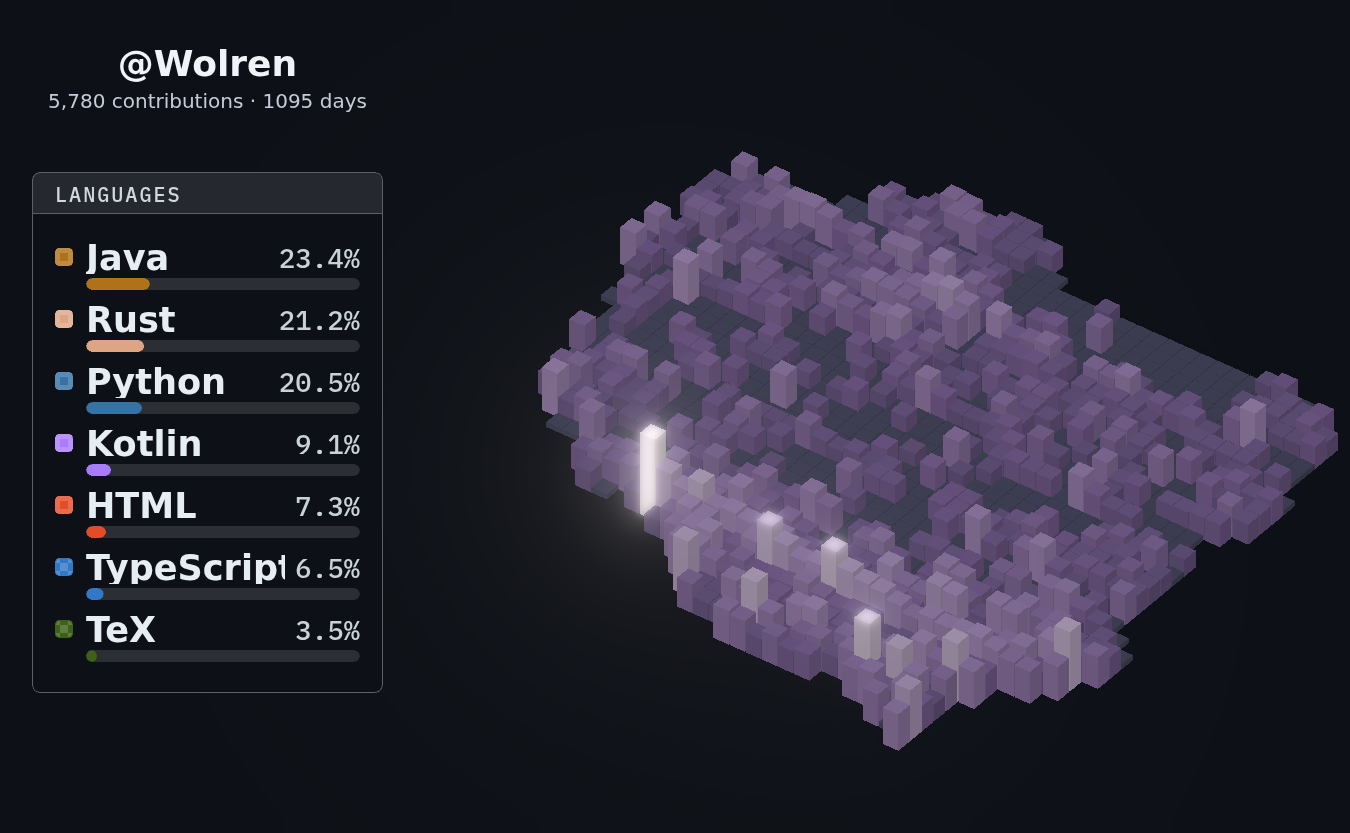
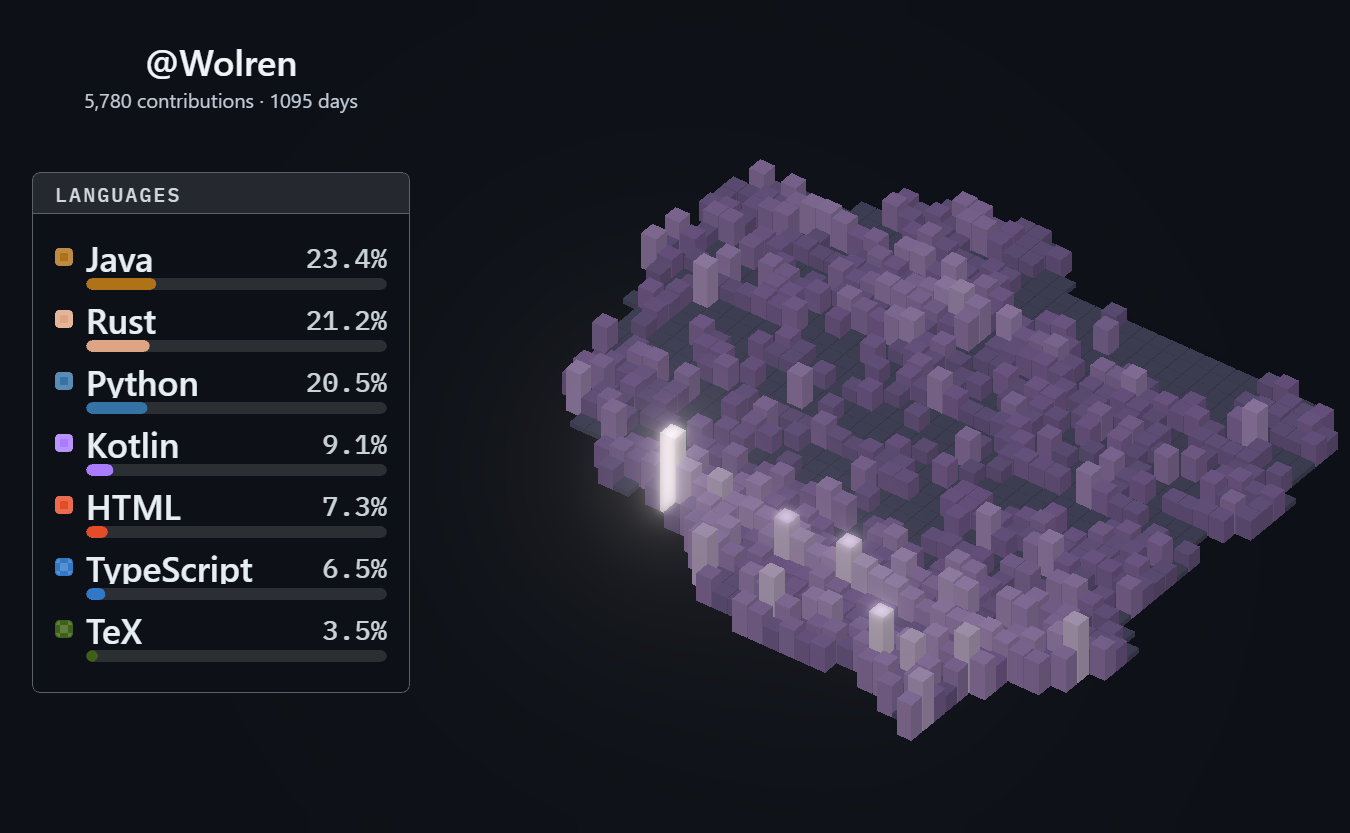
fix: widen the panel so TypeScript keeps its last letter
The CI runner resolves system-ui to a wider face than Windows. At 260
units the label clipped; 280 units leaves headroom for DejaVu metrics.

diff --git a/packages/core/cli/dist/svg-widgets.js b/packages/core/cli/dist/svg-widgets.js
@@ -306,7 +306,7 @@ function renderTimeline(ctx, data) {
 // ─── Languages ────────────────────────────────────────────────────────────────
 // Design units: 1000 units span the canvas width, so 26 unit names stay legible
 // at profile-card width; the old 10 px CSS type collapsed to 6 px there.
-const LANG_PANEL_W = 260;
+const LANG_PANEL_W = 280;
 const LANG_PAD = 16;
 const LANG_HEADER_H = 30;
 const LANG_ROW_H = 46;

diff --git a/packages/core/cli/src/svg-widgets.ts b/packages/core/cli/src/svg-widgets.ts
@@ -345,7 +345,7 @@ function renderTimeline(ctx: WidgetRenderCtx, data: DataExport): string {
 // Design units: 1000 units span the canvas width, so 26 unit names stay legible
 // at profile-card width; the old 10 px CSS type collapsed to 6 px there.
 
-const LANG_PANEL_W = 260;
+const LANG_PANEL_W = 280;
 const LANG_PAD = 16;
 const LANG_HEADER_H = 30;
 const LANG_ROW_H = 46;

diff --git a/web/src/ui/widget-languages.ts b/web/src/ui/widget-languages.ts
@@ -7,7 +7,7 @@ import { state } from './state';
 import { registerWidget, getWidgetSetting, renderAllWidgets, widgetAccent, widgetUnit } from './dashboard';
 import type { WidgetId, GitHubLanguage } from '../types';
 
-const PANEL_W = 260;
+const PANEL_W = 280;
 const PAD = 16;
 const HEADER_H = 30;
 const ROW_H = 46;
